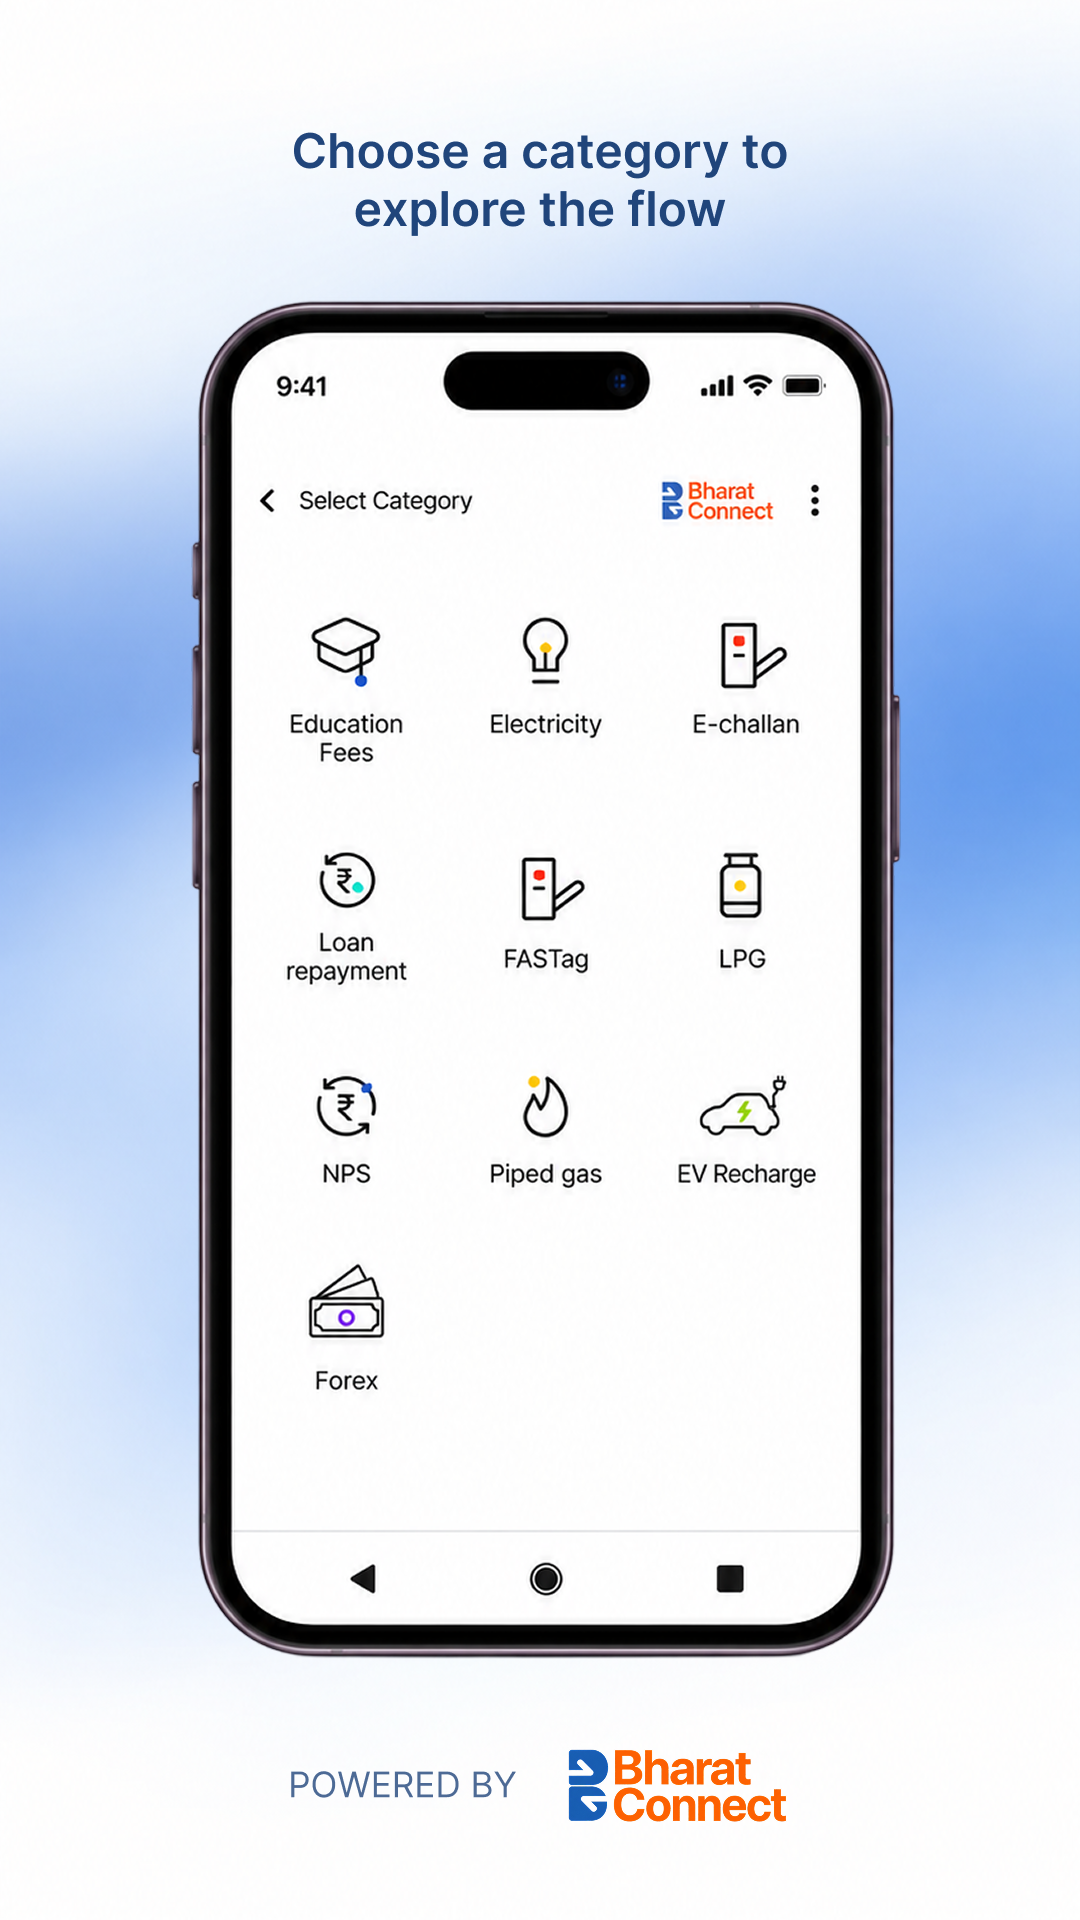
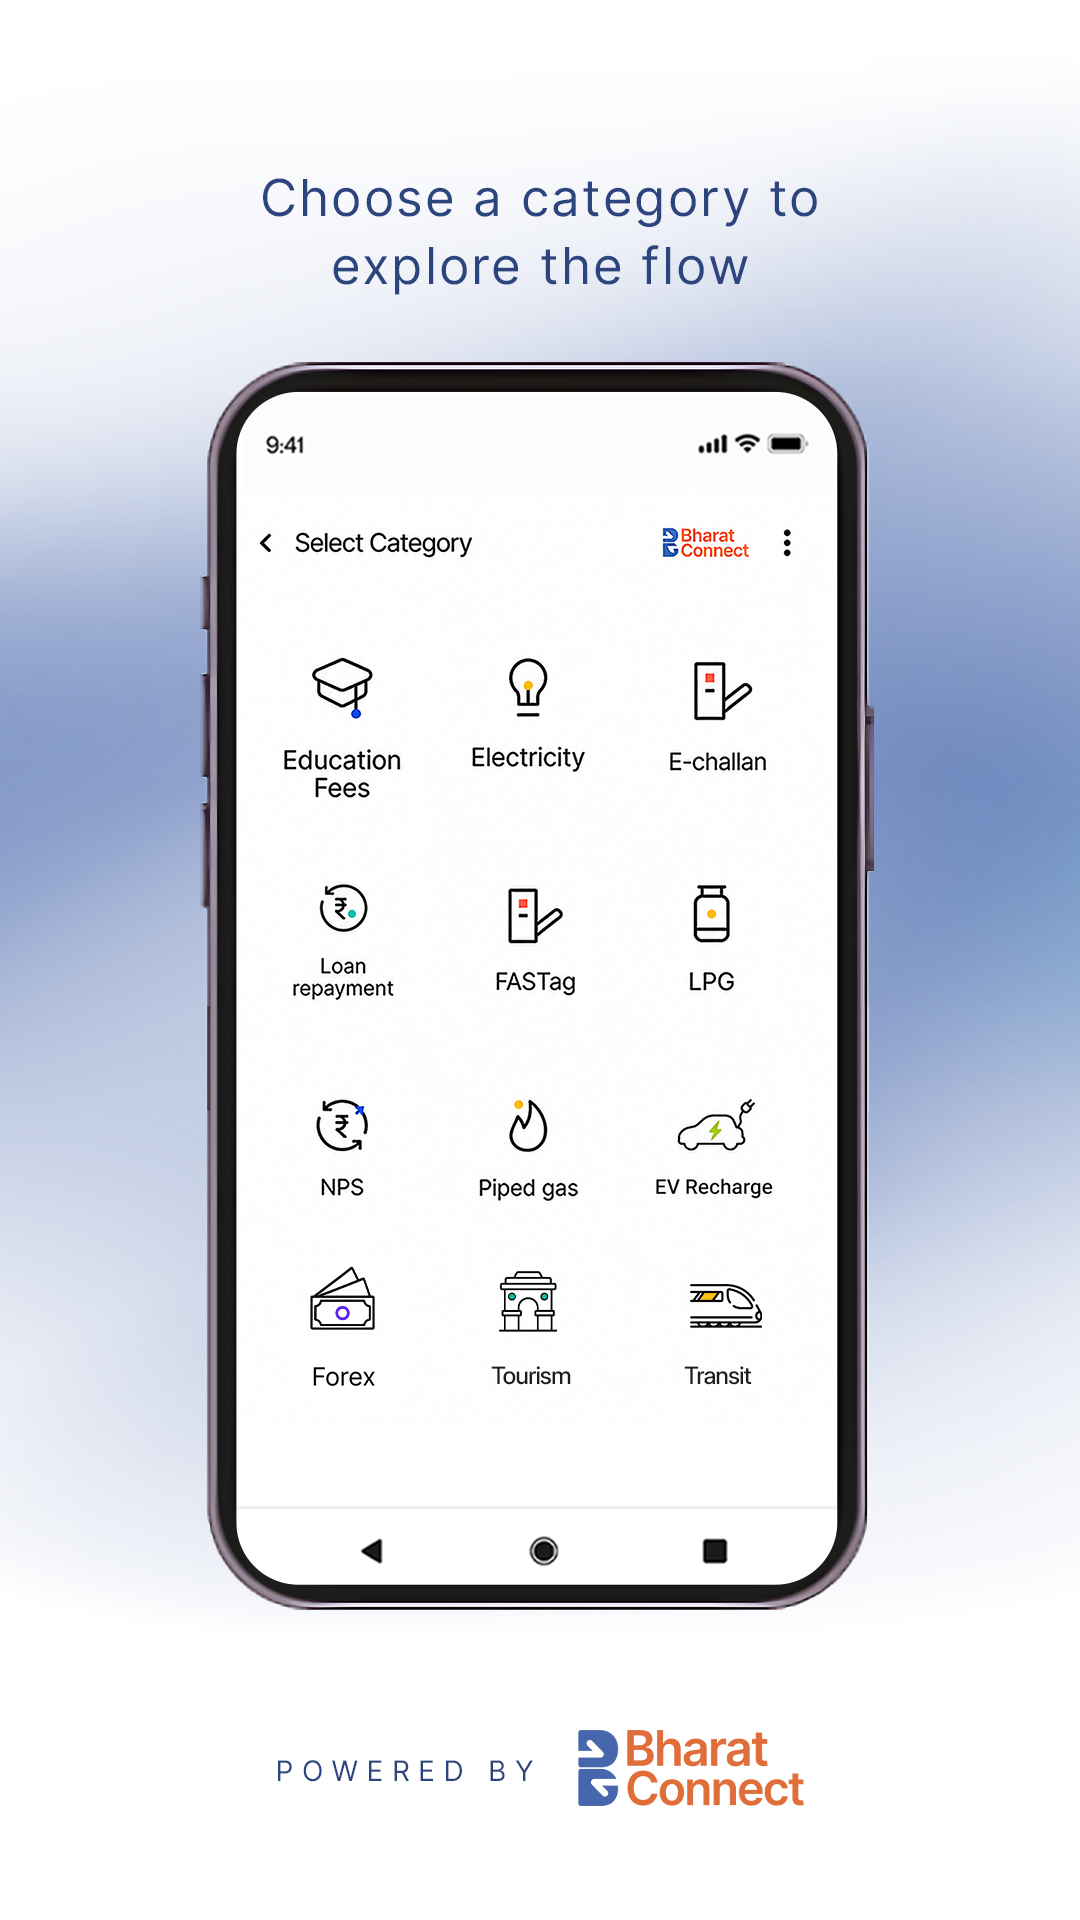
extra button added

diff --git a/index.html b/index.html
@@ -253,7 +253,9 @@ const CATEGORIES = [
   { id:"nps",         label:"NPS",             file:"ncmc.mp4"        },
   { id:"pipedgas",    label:"Piped gas",       file:"piped-gas.mp4"   },
   { id:"ev",          label:"EV Recharge",     file:"ev-recharge.mp4" },
-  { id:"forex",       label:"Forex",           file:"forex.mp4"       }
+  { id:"forex",       label:"Forex",           file:"forex.mp4"       },
+  { id:"tourism",     label:"Tourism",         file:"Tourism.mp4"     },
+  { id:"transit",     label:"Transit",         file:"Transit.mp4"     }
 ];
 
 const publicUrl = f =>
